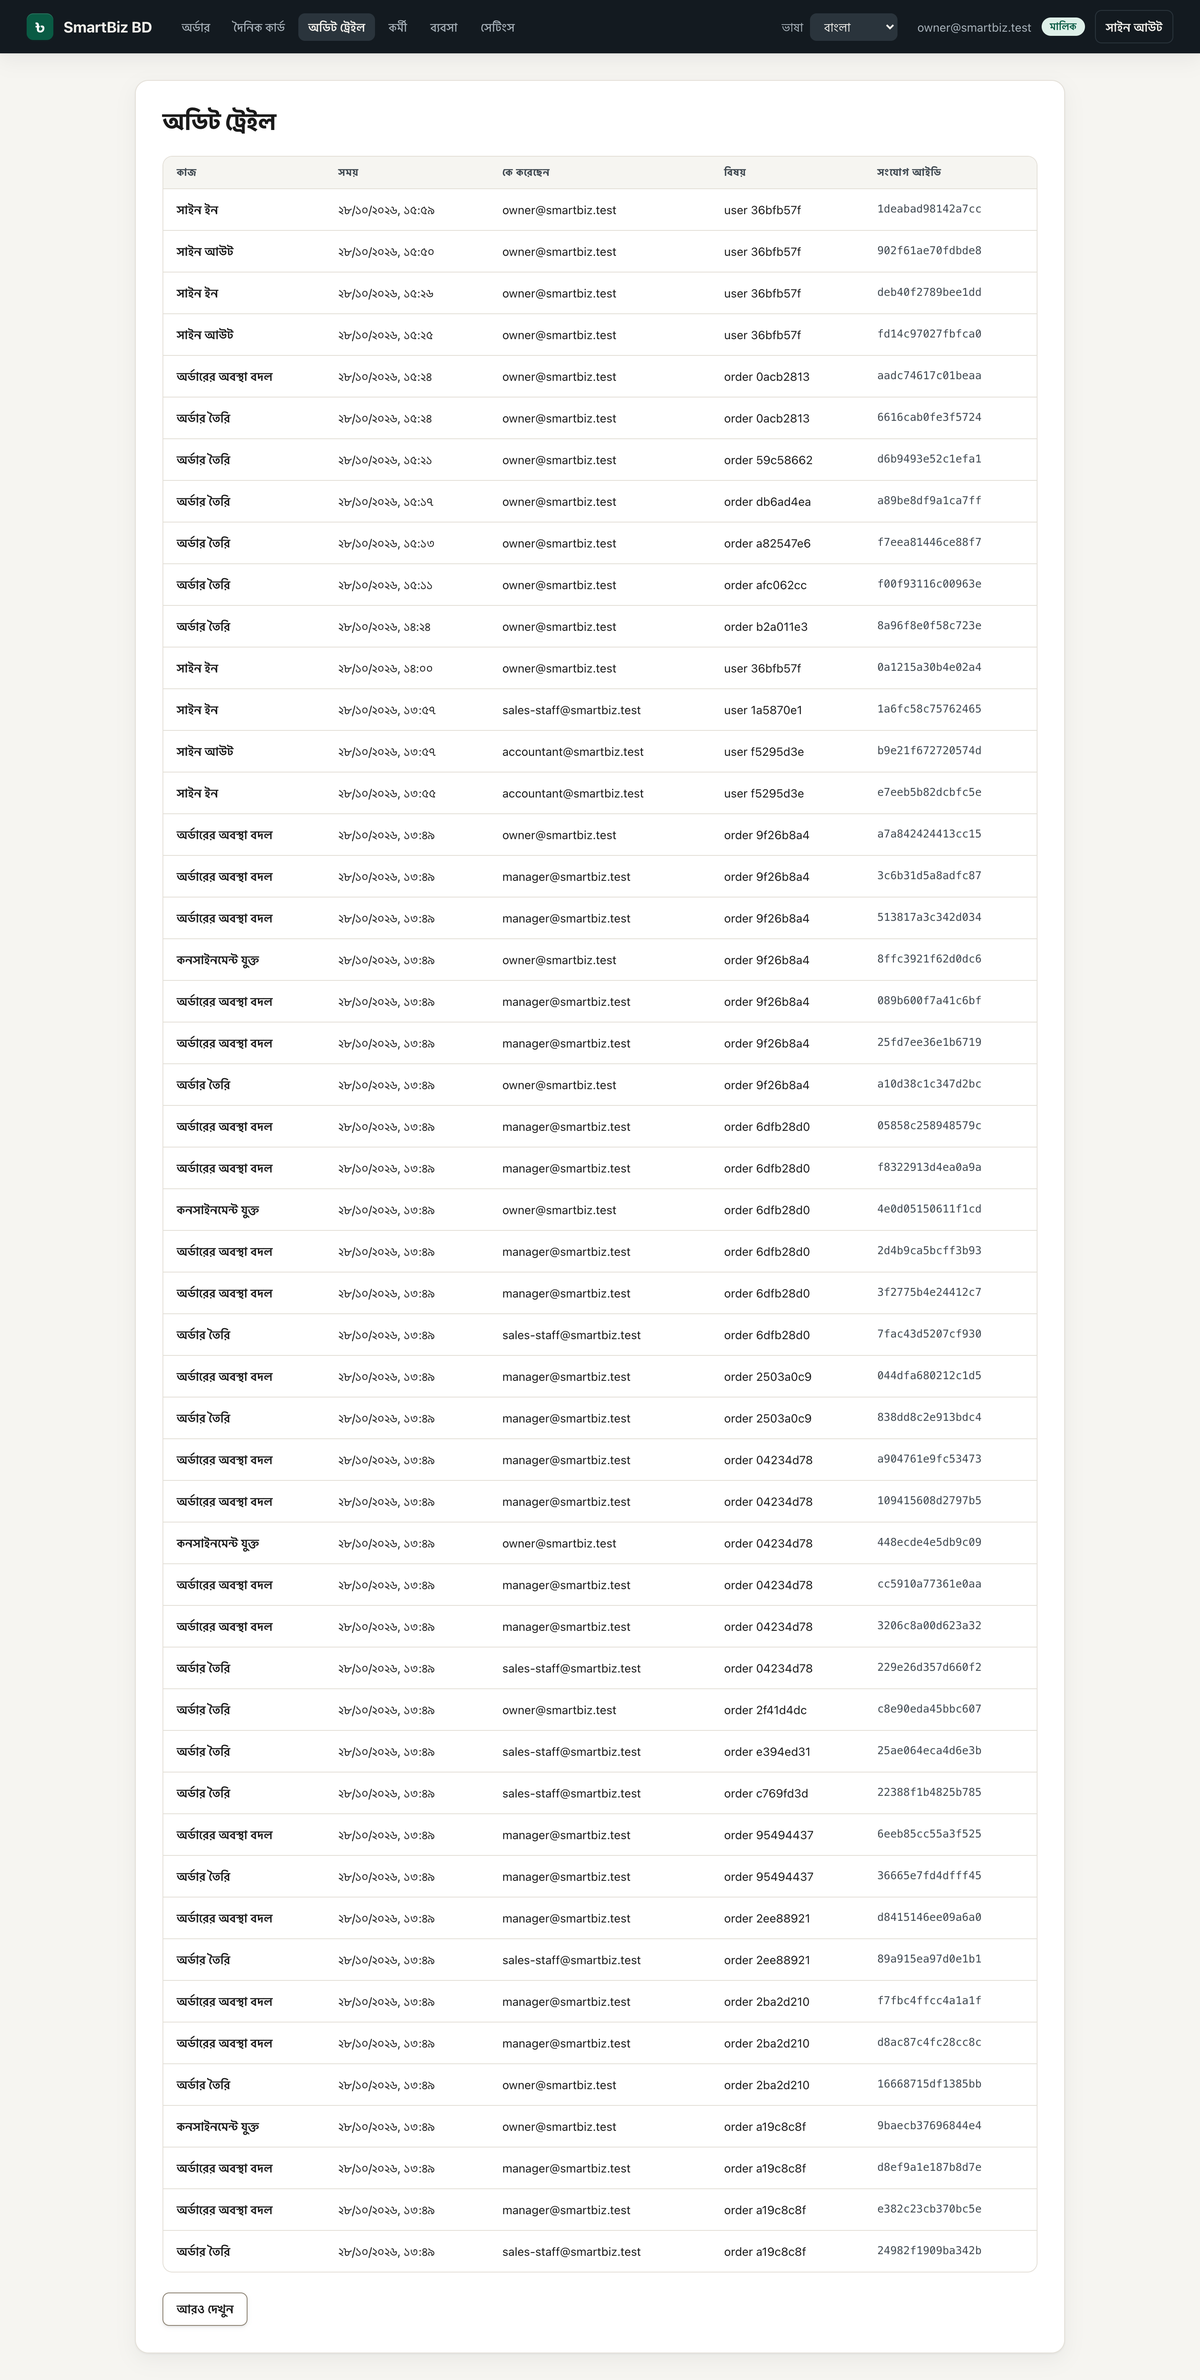
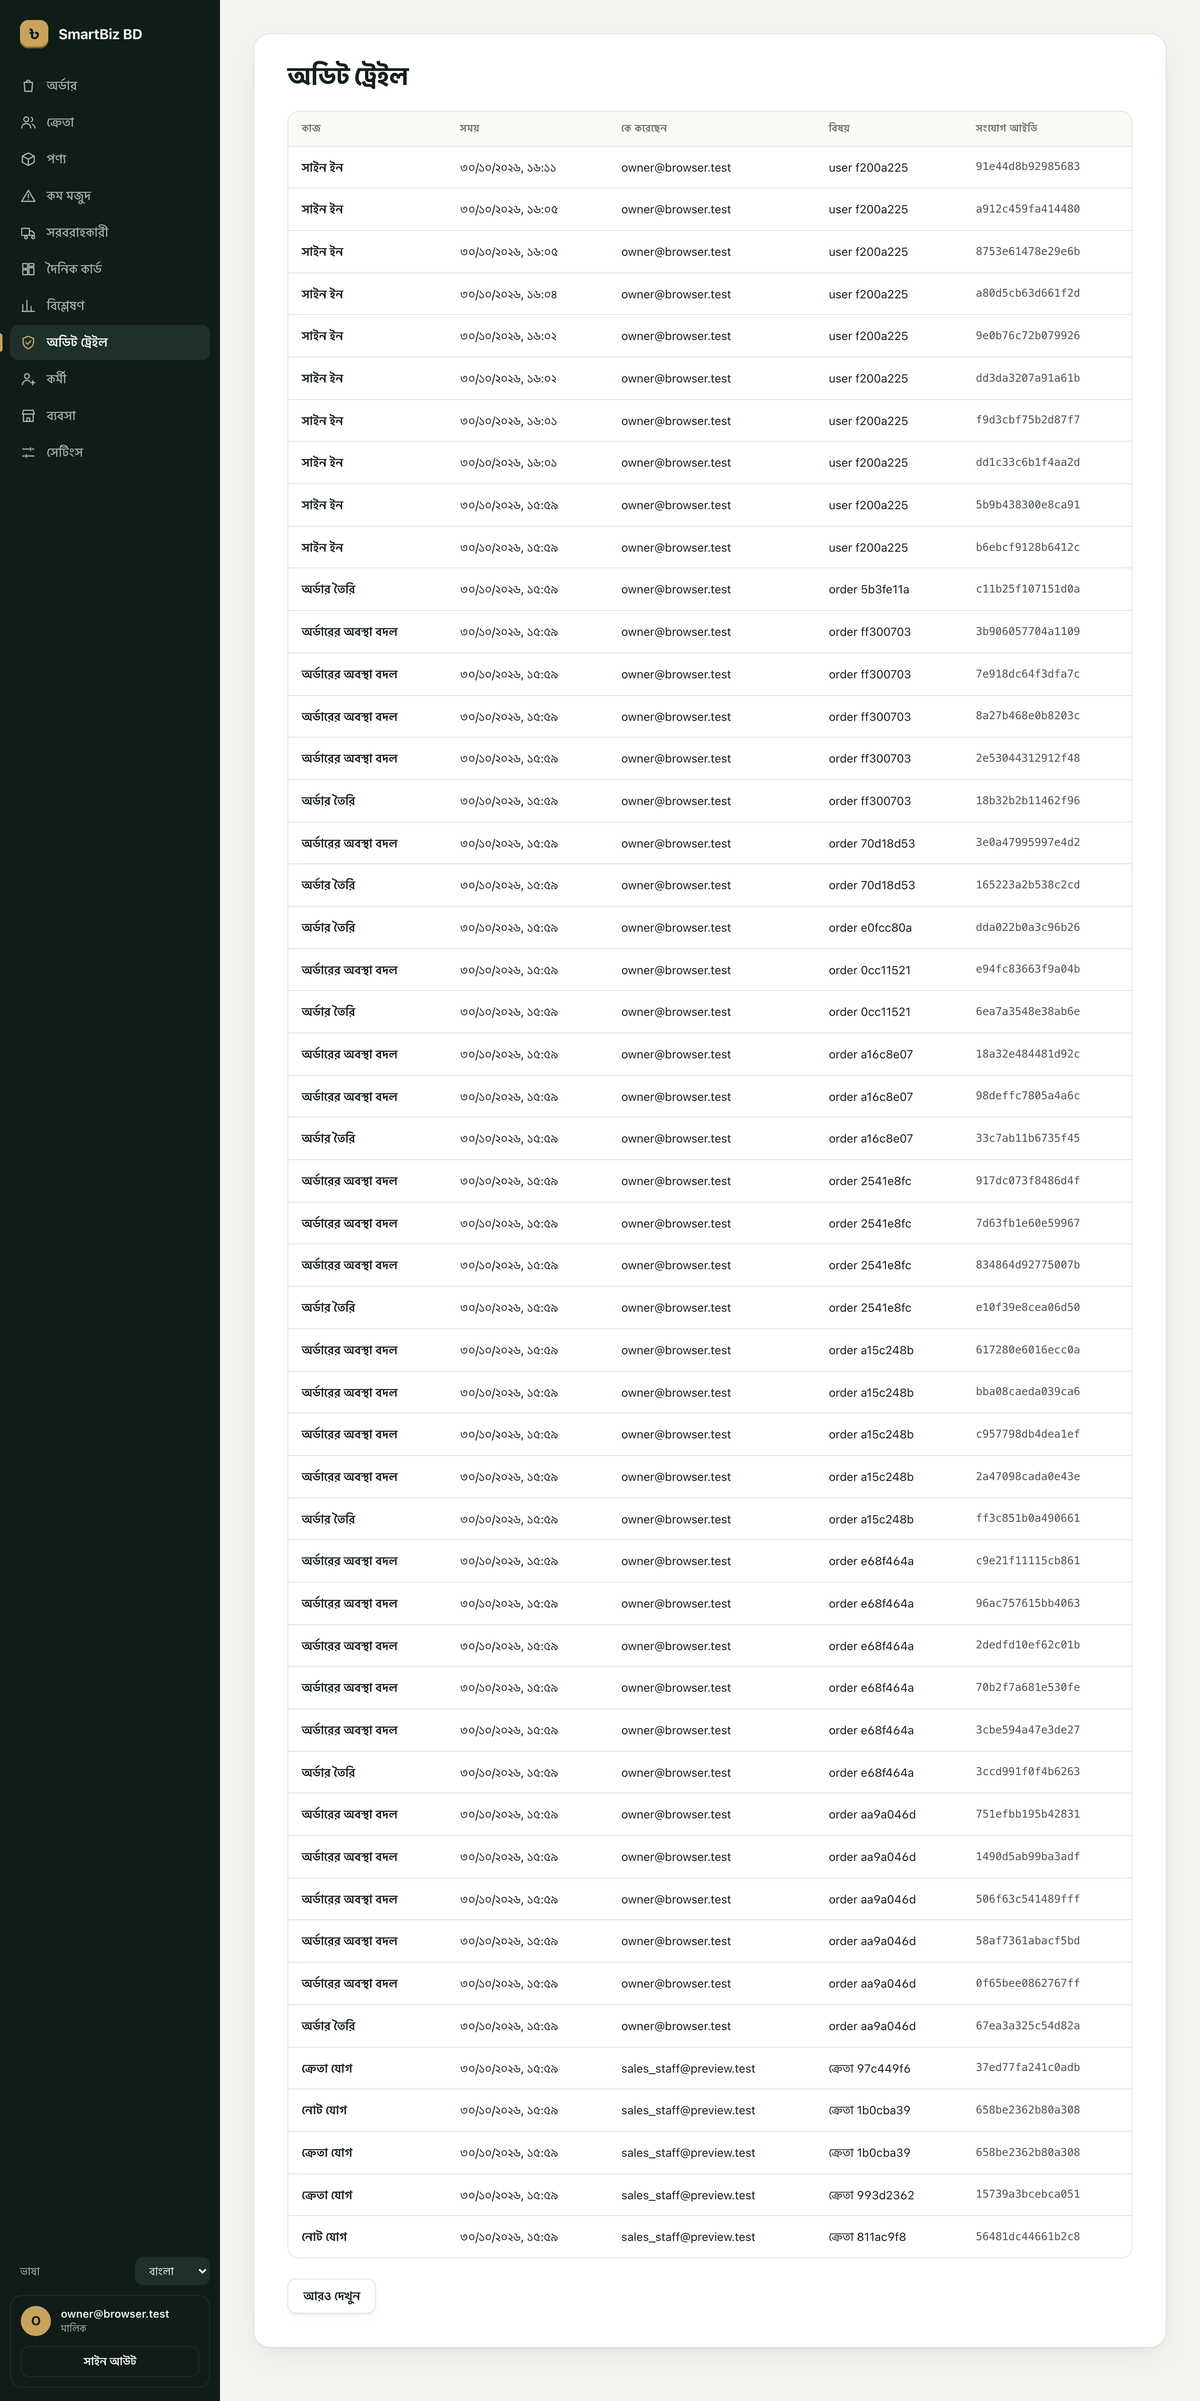
redesign: mockups §18 and fresh screenshots
- mockups.md §18: the premium, phone-first redesign (sidebar, top bar,
  drawer and tab bar; list cards; order detail; daily card hero; forms;
  product photo, insights, business, settings and invoice), with the
  decisions taken on the Owner's standing instruction and its checks.
- §15 nav table brought up to the shipped list; §16 marked superseded on
  look; §17 status updated to built.
- design-system-mapping.md: the new token values and visual language.
- screenshots/: 38 new captures (desktop 1440 px, phone 390 px) of every
  screen including catalog, insights, business, settings, invoice and the
  phone drawer, from a throwaway database; README re-indexed.

diff --git a/aidlc/spaces/default/intents/261027-app-wiring/inception/refined-mockups/design-system-mapping.md b/aidlc/spaces/default/intents/261027-app-wiring/inception/refined-mockups/design-system-mapping.md
@@ -6,49 +6,57 @@
 
 ## Tokens used
 
-> **Updated 2026-10-28 (visual refresh before the demo).** The first version of this table listed a
-> plain link-blue palette and "no new colour token". The shipped stylesheet now carries the
-> prototype's ledger palette (`prototype/css/tokens.css`) as brand tokens. Every text pair is
-> measured in `tests/unit/contrast.test.ts`, and the warning gap below is closed.
+> **Updated 2026-10-30 (premium redesign, `mockups.md` §18).** Token names are kept so the screens
+> did not change; values moved to a quieter ink-green and ivory palette, and a few tokens were
+> added (`--color-surface-2`, `--color-text-3`, `--color-accent`, `--color-accent-text`,
+> `--color-on-brand-muted`, `--scrim`, `--shadow-float`, layout sizes). Every colour token is in at
+> least one pair measured by `tests/unit/contrast.test.ts`. The 2026-10-28 values are in git
+> history.
 
 | Token | Value | Used for |
 |-------|-------|----------|
-| `--color-text` | `#1a1a1a` (16.1:1 on white) | body text, figures |
-| `--color-text-2` | `#414a52` (8.2:1 on white, 7.6:1 on canvas) | labels, secondary text, table heads |
-| `--color-canvas` | `#f6f5f1` | page background (warm ledger paper), panels inside cards |
-| `--color-surface` | `#ffffff` | screen cards, inputs, secondary buttons |
-| `--color-line` | `#e4e0d8` | decorative rules and card borders (no contrast floor) |
-| `--color-control-border` | `#8c8272` (3.6:1) | borders that bound a control (WCAG 1.4.11) |
-| `--color-header-bg` / `-text` / `-muted` / `-active` | `#131a20` / `#f3f1ec` (15.9:1) / `#a8b2ba` (8.4:1) / `#2a343c` | ink header, nav links, current page |
-| `--color-brand` / `--color-brand-dark` | `#0a5b44` (white on it 7.6:1) / `#06382a` | primary buttons, brand mark, focused input; hover |
-| `--color-brand-tint` | `#eff7f3` (brand on it 7.0:1) | row hover, contact strip, link sheet |
-| `--color-bg-success` | `#deefe8` (brand on it 6.5:1) | `success` pill, role badge, saved toast |
-| `--color-warning` / `--color-bg-warning` | `#8f5c11` / `#f8ebd3` (4.9:1) | `warning` pill, incomplete paste item border |
-| `--color-error` / `--color-bg-error` | `#a4252b` / `#fbeaea` (6.3:1) | `danger` pill, error banners |
-| `--color-bg-neutral` | `#efede7` (text-2 on it 7.0:1) | `neutral` pill, fact chips |
-| `--color-link` | `#1457b2` (7.0:1) | inline links only (no longer the primary button colour) |
-| `--radius-sm/md/lg/pill` | 8 / 12 / 16 / 999 px | controls / panels / screen cards / pills |
-| `--shadow-card`, `--shadow-raised`, `--shadow-button`, `--ring-brand` | layered soft shadows | cards, buttons, primary buttons, focus halo |
-| `--space-1…8` | 4–32 px | all spacing; card padding `--space-8`, gutter `--space-4` on phones |
-| `--font-ui` | system-ui, Hind Siliguri, Noto Sans Bengali, Kohinoor Bangla | Latin from the platform face; Bangla through the offline chain |
-| `--focus-ring-outline` | 3 px solid link colour | every focusable element (unchanged) |
-
-**Warning gap: closed.** `--color-warning` `#8f5c11` on `--color-bg-warning` measures 4.9:1 and is in
-the contrast harness.
+| `--color-text` | `#15201b` (16.7:1 on white) | body text, figures |
+| `--color-text-2` | `#4b5752` (7.5:1 on white, 6.8:1 on canvas) | labels, secondary text |
+| `--color-text-3` | `#66716c` (5.1:1 on white, 4.6:1 on canvas) | captions, column heads, phone cell labels |
+| `--color-canvas` | `#f4f3ee` | page background (warm ivory) |
+| `--color-surface` / `--color-surface-2` | `#ffffff` / `#faf9f6` | cards, inputs, buttons / quiet panels inside a card |
+| `--color-line` | `#e6e3da` | hairline borders and rules (decorative) |
+| `--color-control-border` | `#8c8272` (3.8:1) | borders that bound an input (WCAG 1.4.11) |
+| `--color-header-bg` / `-text` / `-muted` / `-active` | `#0f1c17` / `#f1f4f2` (15.8:1) / `#a3b4ad` (8.1:1) / `#1d302a` | ink-green sidebar, top bar, drawer; lit nav row |
+| `--color-accent` / `--color-accent-text` | `#c8a35a` (ink on it 7.4:1) / `#85621f` (5.6:1 on white) | gold brand tile, avatar, current-page bar and icon / gold as text |
+| `--color-brand` / `--color-brand-dark` | `#0a5b44` (white on it 8.1:1) / `#06382a` | primary buttons, current tab, focused input; hover; hero gradient |
+| `--color-on-brand-muted` | `#c8e6d8` (6.1:1 on brand, 9.8:1 on brand-dark) | labels on the daily-card hero tile |
+| `--color-brand-tint` / `--color-bg-success` | `#eef6f2` / `#dcefe6` | row hover, link chips / success pill, current-tab pill |
+| `--color-warning` / `--color-bg-warning` | `#8f5c11` / `#f8ebd3` (4.8:1) | warning pill, incomplete item edge |
+| `--color-error` / `--color-bg-error` | `#a4252b` / `#fbeaea` (6.3:1) | danger pill, error banners |
+| `--color-bg-neutral` | `#efede7` (text-2 on it 6.4:1) | neutral pill, counts |
+| `--color-link` | `#1457b2` (6.9:1) | inline links; focus outline |
+| `--radius-xs/sm/md/lg/pill` | 6 / 10 / 14 / 20 / 999 px | options / controls / panels / screen cards and tiles / pills |
+| `--shadow-card`, `--shadow-raised`, `--shadow-float`, `--shadow-button`, `--ring-brand` | layered, low-contrast | screen cards, buttons and list cards, drawer and toast, primary buttons, focus halo |
+| `--sidebar-width`, `--topbar-height`, `--tabbar-height` | 264 / 56 / 64 px | shell layout (§18.1) |
+| `--space-1…10` | 4–40 px | spacing; 40 px desktop gutter, 16 px phone gutter |
+| `--font-ui` | Inter (if installed), system-ui, Hind Siliguri, Noto Sans Bengali, Kohinoor Bangla | no hosted font (CSP `default-src 'self'`) |
+| `--focus-ring-outline` | 2 px solid link colour + 4 px halo | every focusable element |
 
 ### Visual language
 
-- **Type scale:** screen title 28 px / 700 (24 px on phones); section heading 17 px / 700; labels
-  13 px / 600 in `--color-text-2`; body 15–16 px; stat figures 26 px / 700 with tabular numerals.
-- **Surfaces:** canvas page → white screen card (radius 16, `--shadow-card`) → canvas panels inside
-  the card (filters, totals, line cards) with a `--color-line` border.
-- **Controls:** 44 px inputs and primary buttons, 40 px secondary buttons, 32 px row buttons. A
-  focused input gets the brand border plus `--ring-brand`.
-- **Buttons:** one filled brand button per area; the rest are white with a control border. "New
-  order" (orders list) and "Repeat order" (order detail) are the primary actions on their screens.
-- **Pills:** 12 px / 600 with a leading dot in the pill's colour; the text always carries the
-  meaning (NFR9.9). Order status uses `statusTone`: delivered and settled → success; cancelled and
-  returned → danger; partial → warning; new, confirmed, packed and shipped → neutral.
+- **Type scale:** screen title 30 px / 700, −0.02 em (24 px on phones); section heading 17 px;
+  labels 13 px / 600 in `--color-text-2`; captions 12 px in `--color-text-3`; stat figures 26–32 px
+  / 700 with tabular numerals.
+- **Surfaces:** ivory canvas → white screen card (radius 20, `--shadow-card`) → `surface-2` panels
+  (filters, totals, contact, line cards) with a hairline border. On a phone the outer card is
+  dropped and each panel sits on the canvas.
+- **Chrome:** ink-green sidebar (desktop) or top bar + drawer + white bottom tab bar (phone); gold
+  is the only accent and marks the brand and the current page.
+- **Controls:** 46 px inputs and primary buttons, 42 px secondary buttons, 34 px row buttons,
+  44 px icon buttons. A focused input gets the brand border plus `--ring-brand`.
+- **Buttons:** one filled emerald button per area; the rest are white with a hairline border.
+- **Pills:** 12 px / 600 with a leading dot; the text always carries the meaning (NFR9.9). Basis
+  and completeness pills appear on every money figure at every width (§18 D18-4).
+- **Icons:** twelve inline 24 px stroke SVGs in `Shell.tsx`, decorative (`aria-hidden`), never the
+  only label.
+- **Motion:** 140–260 ms ease-out on hover, drawer and toast; all of it off under
+  `prefers-reduced-motion`.
 
 ## Screen → components
 
@@ -77,6 +85,11 @@ the contrast harness.
 | `card flush` + `list-item` CSS | kept as BEM-ish classes in the production stylesheet; the `classes` harness gap (team.md) gets these as its first targets |
 
 ## Classes the new screens add
+
+Added by the 2026-10-30 redesign (§18): `shell--app`, `shell--public`, `shell__topbar`,
+`shell__topbar-brand`, `shell__icon-button`, `shell__account`, `shell__locale`, `shell__user`,
+`shell__avatar`, `shell__who`, `shell__scrim`, `shell__tabbar`, `icon`, `visually-hidden`,
+`table--stack` (with `data-label` and `data-cell="corner" | "half"` on cells).
 
 Added by the 2026-10-28 refresh: `screen__back` (the back link on sub-screens), `paste-item__facts`,
 `fact`, `fact__label` (labelled quantity, size and colour chips) and `paste-item__price`.

diff --git a/aidlc/spaces/default/intents/261027-app-wiring/inception/refined-mockups/screenshots/README.md b/aidlc/spaces/default/intents/261027-app-wiring/inception/refined-mockups/screenshots/README.md
@@ -1,30 +1,46 @@
-# Screenshots — App Wiring, as built (2026-10-28)
+# Screenshots — App Wiring, redesign as built (2026-10-30)
 
-Real screenshots of the running app, the visual companion to `../mockups.md` §16 (visual refresh)
-and §17.1 (Daily card). They show the demo business (রহিম ফ্যাশন হাউস) seeded by
-`bun run seed:demo`, plus a few quick-add test orders made on 28 October.
+Real screenshots of the running app after the premium redesign: the visual companion to
+`../mockups.md` §18 (redesign), which supersedes the look recorded in §16 and §17. The 2026-10-28
+set (ink top bar, single-column phone tables) is replaced; it stays in git history.
 
-- **Capture:** headless Google Chrome over the DevTools protocol against `http://127.0.0.1:3000`,
-  full page, at 2× pixel density, with reduced motion so nothing is caught mid-animation.
-- **Desktop:** 1440 px wide, Bangla (`-bn`) and English (`-en`).
-- **Phone:** 390 px wide, Bangla.
-- **Very long pages** (the full orders list on a phone) are cut at 6 000 px.
+- **Data:** a throwaway database seeded through the app's own API with the demo catalog
+  (`seedDemoCatalog` from `scripts/seed-demo.ts`) and ten orders across every status. The business
+  is রহিম ফ্যাশন হাউস; the signed-in Owner is the throwaway browser-check account
+  (`owner@browser.test`), so no demo password is involved.
+- **Capture:** headless Google Chrome over the DevTools protocol, at 2× pixel density, with
+  reduced motion; the viewport is grown to the page height so the fixed sidebar and the phone tab
+  bar are drawn where a person sees them.
+- **Desktop:** 1440 px wide. **Phone:** 390 px wide. Bangla (`-bn`).
+- Every capture was checked for sideways scroll: `scrollWidth` equals the window width on all 38.
+- Very long pages (audit trail, full orders list on a phone) are cut at 4 000 px.
 
-Business, Settings (§17.2, §17.3) are designed but not built, so they have no screenshots yet.
+| # | Screen | Route | Mockup | Desktop | Phone |
+|---|--------|-------|--------|---------|-------|
+| 00 | Sign-in (signed out) | `/sign-in` | §18.2 | [bn](desktop/00-sign-in-bn.png) | [bn](phone/00-sign-in-bn.png) |
+| 01 | Orders list | `/orders` | §18.3 | [bn](desktop/01-orders-list-bn.png) | [bn](phone/01-orders-list-bn.png) |
+| 02 | Order detail | `/orders/:id` | §18.4 | [bn](desktop/02-order-detail-bn.png) | [bn](phone/02-order-detail-bn.png) |
+| 03 | New order | `/orders/new` | §16.4, §18.6 | [bn](desktop/03-new-order-bn.png) | [bn](phone/03-new-order-bn.png) |
+| 04 | Order from a message (after "পড়ুন") | `/orders/new/paste-parse` | §16.5, §18.6 | [bn](desktop/04-order-from-message-bn.png) | [bn](phone/04-order-from-message-bn.png) |
+| 05 | Repeat a past order | `/orders/new/repeat` | §16.7 | [bn](desktop/05-repeat-order-bn.png) | [bn](phone/05-repeat-order-bn.png) |
+| 06 | Daily card | `/daily-card` | §18.5 | [bn](desktop/06-daily-card-bn.png) | [bn](phone/06-daily-card-bn.png) |
+| 07 | Staff and invitations | `/staff` | §5, §18.3 | [bn](desktop/07-staff-bn.png) | [bn](phone/07-staff-bn.png) |
+| 08 | Audit trail | `/audit-trail` | §18.3 | [bn](desktop/08-audit-trail-bn.png) | [bn](phone/08-audit-trail-bn.png) |
+| 09 | Customers | `/customers` | §6, §18.3 | [bn](desktop/09-customers-bn.png) | [bn](phone/09-customers-bn.png) |
+| 10 | Customer detail | `/customers/:id` | §8 | [bn](desktop/10-customer-detail-bn.png) | [bn](phone/10-customer-detail-bn.png) |
+| 11 | Products | `/products` | §9, §18.3 | [bn](desktop/11-products-bn.png) | [bn](phone/11-products-bn.png) |
+| 12 | Product detail (photo, variants) | `/products/:id` | §11, §18.7 | [bn](desktop/12-product-detail-bn.png) | [bn](phone/12-product-detail-bn.png) |
+| 13 | Low stock | `/low-stock` | §12, §18.3 | [bn](desktop/13-low-stock-bn.png) | [bn](phone/13-low-stock-bn.png) |
+| 14 | Suppliers | `/suppliers` | §12, §18.3 | [bn](desktop/14-suppliers-bn.png) | [bn](phone/14-suppliers-bn.png) |
+| 15 | Insights (Owner) | `/insights` | §18.7 | [bn](desktop/15-insights-bn.png) | [bn](phone/15-insights-bn.png) |
+| 16 | Business | `/business` | §17.2, §18.7 | [bn](desktop/16-business-bn.png) | [bn](phone/16-business-bn.png) |
+| 17 | Settings | `/settings` | §17.3, §18.7 | [bn](desktop/17-settings-bn.png) | [bn](phone/17-settings-bn.png) |
+| 18 | Invoice and delivery slip | `/orders/:id/print` | §18.7 | [bn](desktop/18-invoice-and-slip-bn.png) | [bn](phone/18-invoice-and-slip-bn.png) |
+| 19 | Phone menu drawer | any (menu open) | §18.1 | — | [bn](phone/19-menu-drawer-bn.png) |
 
-| # | Screen | Route | Signed in as | Mockup | Desktop | Phone |
-|---|--------|-------|--------------|--------|---------|-------|
-| 00 | Sign-in | `/sign-in` | — | §2, §16.6 | [bn](desktop/00-sign-in-bn.png) | [bn](phone/00-sign-in-bn.png) |
-| 01 | Orders list | `/orders` | Owner | §16.2 | [bn](desktop/01-orders-list-bn.png) · [en](desktop/01-orders-list-en.png) | [bn](phone/01-orders-list-bn.png) |
-| 02 | Order detail | `/orders/:id` | Owner | §16.3 | [bn](desktop/02-order-detail-bn.png) · [en](desktop/02-order-detail-en.png) | [bn](phone/02-order-detail-bn.png) |
-| 03 | New order | `/orders/new` | Owner | §16.4 | [bn](desktop/03-new-order-bn.png) · [en](desktop/03-new-order-en.png) | [bn](phone/03-new-order-bn.png) |
-| 04 | Order from a message (after "পড়ুন") | `/orders/new/paste-parse` | Owner | §16.5 | [bn](desktop/04-order-from-message-bn.png) · [en](desktop/04-order-from-message-en.png) | [bn](phone/04-order-from-message-bn.png) |
-| 05 | Repeat a past order | `/orders/new/repeat` | Owner | §16.7 | [bn](desktop/05-repeat-order-bn.png) · [en](desktop/05-repeat-order-en.png) | [bn](phone/05-repeat-order-bn.png) |
-| 06 | Daily card | `/daily-card` | Owner | §17.1 | [bn](desktop/06-daily-card-bn.png) · [en](desktop/06-daily-card-en.png) | [bn](phone/06-daily-card-bn.png) |
-| 07 | Staff and invitations | `/staff` | Owner | §5, §16.7 | [bn](desktop/07-staff-bn.png) · [en](desktop/07-staff-en.png) | [bn](phone/07-staff-bn.png) |
-| 08 | Audit trail | `/audit-trail` | Owner | §16.2 table style | [bn](desktop/08-audit-trail-bn.png) · [en](desktop/08-audit-trail-en.png) | [bn](phone/08-audit-trail-bn.png) |
-| 20 | Orders list, shorter menu | `/orders` | Sales staff | §15 | [bn](desktop/20-sales-staff-orders-bn.png) | [bn](phone/20-sales-staff-orders-bn.png) |
-| 21 | Daily card locked for a non-Owner | `/daily-card` | Sales staff | §14 (403), §17.1 | [bn](desktop/21-sales-staff-daily-card-locked-bn.png) | [bn](phone/21-sales-staff-daily-card-locked-bn.png) |
+Not in this set: the staff-role views (shorter menu, locked daily card). Their behaviour is
+unchanged by the redesign (§15, §18.1 tab-bar table); only the look follows §18.
 
-To refresh after a UI change: start the app, make sure the demo data is loaded, then re-run the
-capture (it signs in with the accounts in `.env.demo` and overwrites these files).
+To refresh after a UI change: build the client, start a throwaway server on a migrated empty
+database, seed it through the API as above, and re-run the capture. Never capture against the live
+demo database with the `.env.demo` accounts.
